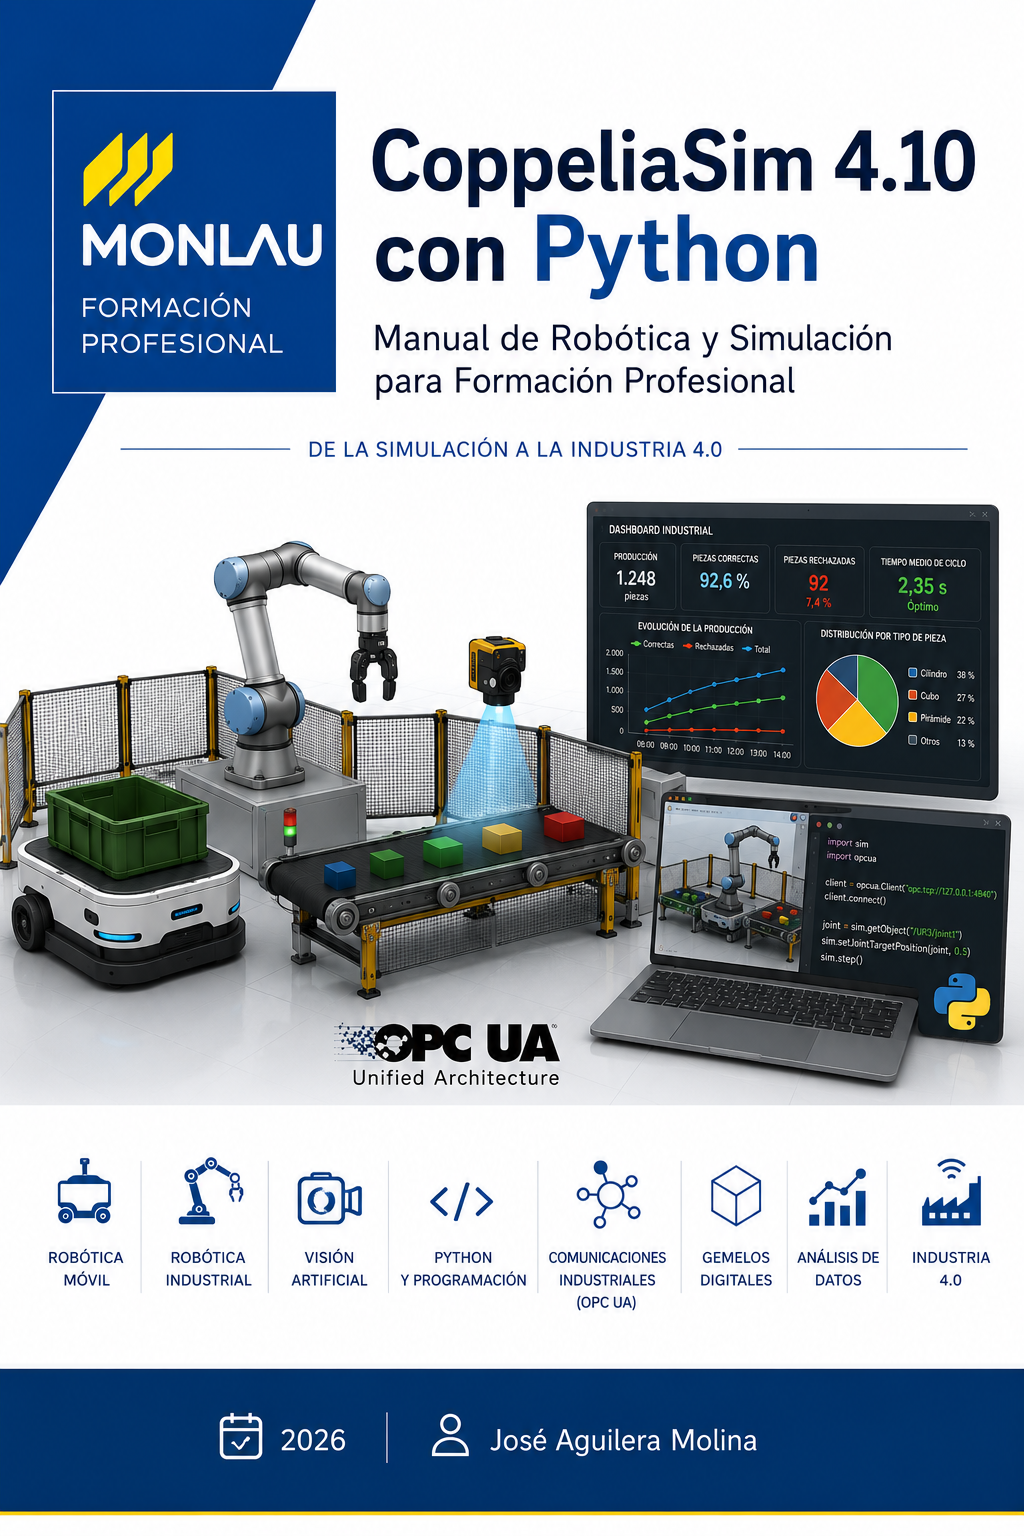
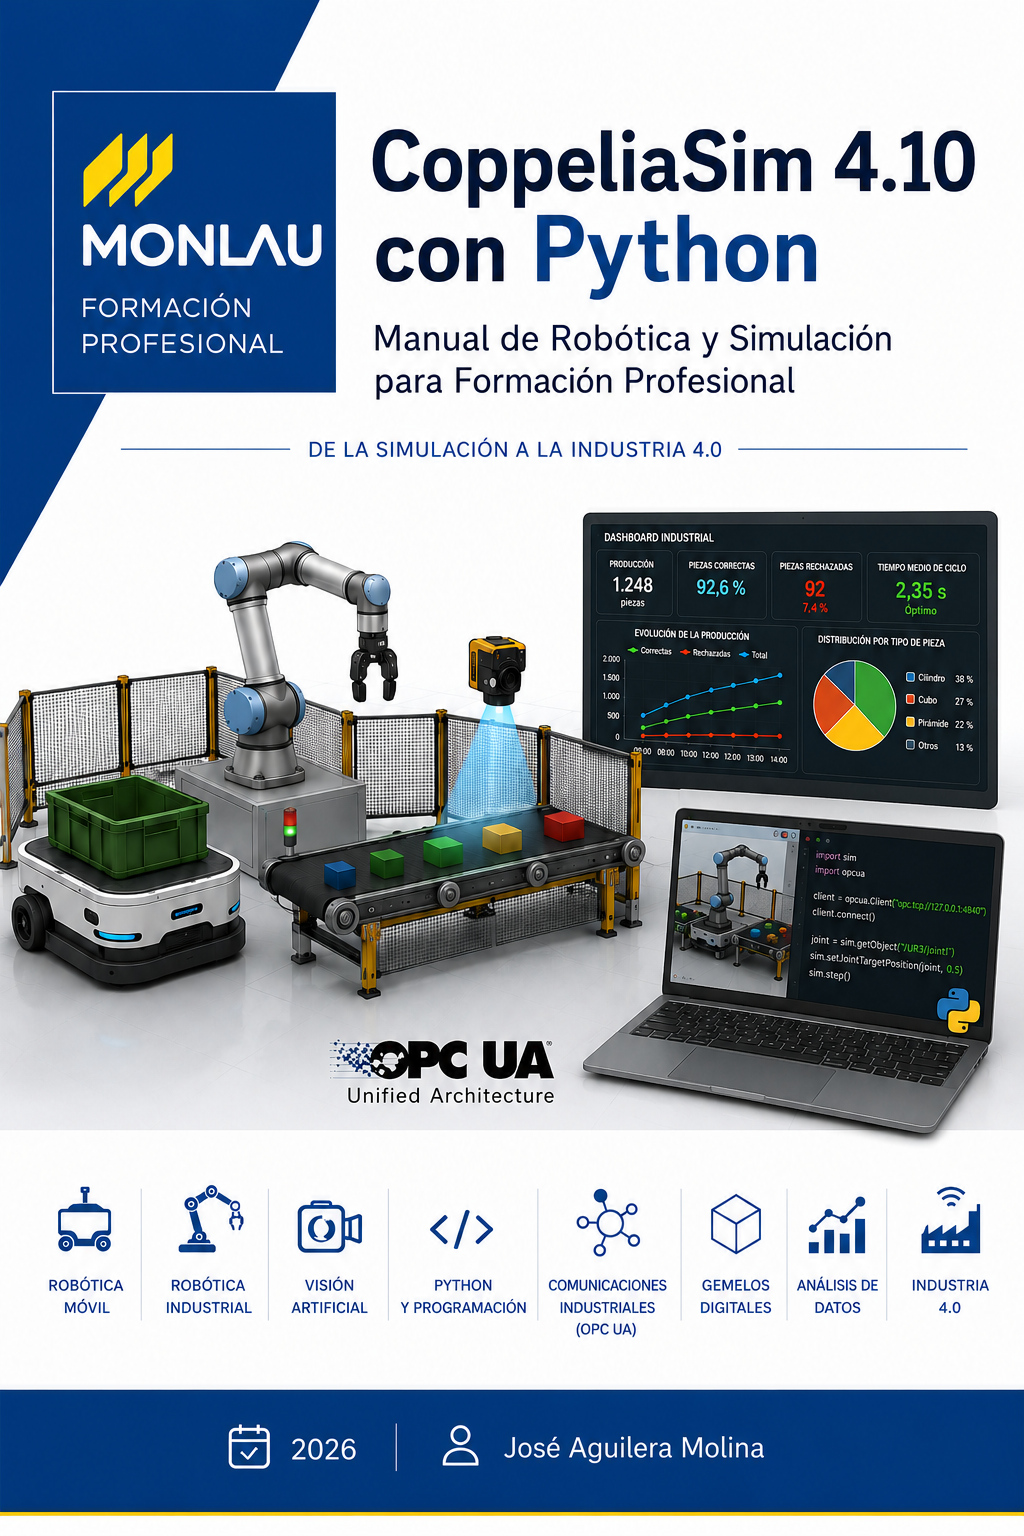
cambio portada

diff --git a/docs/assets/css/coppeliasim-fp.css b/docs/assets/css/coppeliasim-fp.css
@@ -513,7 +513,7 @@ body.fp-cover-page .md-content__inner::before {
   display: none !important;
 }
 
-.fp-cover-full {
+body.fp-cover-page .fp-cover-full {
   flex: 1 1 auto;
   min-height: 0 !important;
   width: 100%;
@@ -524,7 +524,7 @@ body.fp-cover-page .md-content__inner::before {
   position: relative;
 }
 
-.fp-cover-full img {
+body.fp-cover-page .fp-cover-full img {
   display: block;
   max-height: 100%;
   max-width: 96vw;
@@ -535,13 +535,19 @@ body.fp-cover-page .md-content__inner::before {
   box-shadow: 0 14px 42px rgba(0,0,0,.22);
 }
 
-body.fp-cover-page .fp-cover-full + div {
+.fp-cover-actions {
   flex: 0 0 auto;
+  width: 100%;
   margin: 0;
+  display: flex;
+  justify-content: center;
+  text-align: center;
 }
 
 .fp-cover-button {
   position: static;
+  flex: 0 0 auto;
+  align-self: center;
   display: inline-flex;
   align-items: center;
   justify-content: center;

diff --git a/docs/service-worker.js b/docs/service-worker.js
@@ -1,4 +1,4 @@
-const CACHE_NAME = "coppeliasim-fp-v1";
+const CACHE_NAME = "coppeliasim-fp-v2";
 const APP_SHELL = [
   "./",
   "./manifest.webmanifest",
@@ -51,6 +51,11 @@ self.addEventListener("fetch", function (event) {
   }
 
   if (request.mode === "navigate") {
+    event.respondWith(networkFirst(request));
+    return;
+  }
+
+  if (request.destination === "image") {
     event.respondWith(networkFirst(request));
     return;
   }

diff --git a/docs/index.md b/docs/index.md
@@ -1,10 +1,7 @@
 <div class="fp-cover-full">
-
-  <img src="assets/portada/portada-libro.png" alt="Portada del libro">
+  <img src="assets/portada/portada-libro.png" alt="Portada del libro CoppeliaSim 4.10 con Python">
 </div>
 
-<div>
-
+<div class="fp-cover-actions">
   <a class="fp-cover-button" href="inicio/">Comenzar el libro →</a>
-
 </div>
